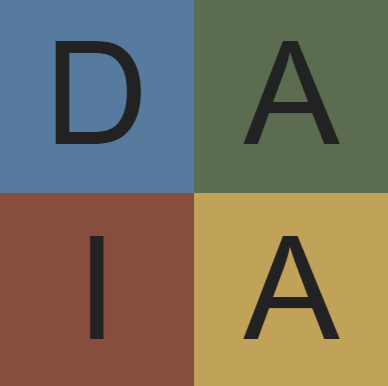
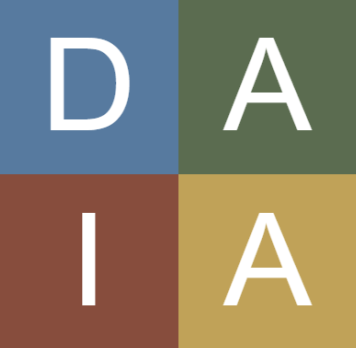
Progress of Floyd, fixed back navigation on the page

diff --git a/Content/Algorithms/Dynamic Programming/Floyds DRAFT.html b/Content/Algorithms/Dynamic Programming/Floyds DRAFT.html
@@ -1,0 +1,225 @@
+<!DOCTYPE html>
+<html lang="en">
+
+<head>
+  <meta charset="UTF-8">
+  <title>Floyd's Algorithm</title>
+  <link rel="stylesheet" href="https://cdnjs.cloudflare.com/ajax/libs/highlight.js/11.11.1/styles/github.min.css">
+  <script src="https://cdnjs.cloudflare.com/ajax/libs/highlight.js/11.11.1/highlight.min.js"></script>
+  <script id="MathJax-script" async src="https://cdn.jsdelivr.net/npm/mathjax@3/es5/tex-mml-chtml.js"></script>
+  <script src="/Algorithms/scripts/chapterScripts.js"></script>
+  <link rel="stylesheet" href="/Algorithms/css/style.css">
+  <link rel="stylesheet" href="/Algorithms/css/chapter.css">
+  <!-- Google tag (gtag.js) -->
+  <script async src="https://www.googletagmanager.com/gtag/js?id=G-DQ5LVZVFDC"></script>
+  <script>
+    window.dataLayer = window.dataLayer || [];
+    function gtag() { dataLayer.push(arguments); }
+    gtag('js', new Date());
+    gtag('config', 'G-DQ5LVZVFDC');
+  </script>
+</head>
+
+<body>
+  <h1>Floyd's Algorithm (All-Pairs Shortest Paths)</h1>
+
+
+  <section id="problem-solved" section-title="Problem Solved">
+    <h2>Problem Solved</h2>
+    <p>
+      Floyd's Algorithm solves the
+      <a class="problem" href="?path=Problems/Graphs/All-Pairs%20Shortest%20Path">All-Pairs Shortest Path</a>
+      problem.
+    </p>
+  </section>
+
+
+  <section id="design" section-title="Design and Strategy">
+    <h2>Design and Strategy</h2>
+    <p>
+      The all-pairs shortest paths problem asks for the minimum distance between every pair of vertices in a weighted
+      graph.
+      Different algorithms approach this in different ways depending on graph size, density, and edge weights.
+      For instance, Dijkstra's algorithm efficiently finds shortest paths from a single source when all edges have
+      nonnegative weights,
+      while Bellman-Ford handles graphs with negative edges but must be run once per source to get all pairs.
+      Floyd's algorithm instead updates all pairs together in a single dynamic programming pass, making it conceptually
+      simple and well suited
+      for dense graphs or adjacency-matrix representations.
+      It works correctly even when some edges have negative weight, provided the graph contains no negative cycles.
+      If a negative cycle exists, distances involving that cycle can decrease without bound, and the notion of a finite
+      shortest path breaks down.
+    </p>
+
+    <p>
+      The algorithm begins with an adjacency matrix \(M\), where each entry \(M[i,j]\) gives the direct edge weight from
+      vertex \(i\) to vertex \(j\), or \(+\infty\) if no such edge exists. Diagonal entries are zero. The algorithm
+      proceeds by considering each vertex, one at a time, as a possible intermediate vertex along any path between two
+      others. After processing vertex \(k\), the matrix records the shortest path between every pair of vertices that
+      may include vertex \(k\) (and any lower-numbered vertices) as intermediates.
+      The initial matrix, \(D^{(0)}\), represents the shortest-path lengths when <em>no</em> intermediate vertices are
+      allowed. The next matrix, \(D^{(1)}\), incorporates paths that may go through vertex 1, \(D^{(2)}\) allows
+      vertices 1 and 2, and so on, until \(D^{(n)}\) allows all vertices.
+    </p>
+
+    <p>
+      Because \(D^{(0)}\) corresponds to zero allowed intermediates, it makes sense to number the vertices starting at
+      1. That way, when we define \(D^{(k)}[i,j]\), it naturally refers to paths whose internal vertices are drawn from
+      the set \(\{1,2,\dots,k\}\). The recursion then begins at \(k=1\) and proceeds through \(k=n\), ensuring that by
+      the end every vertex has been considered as a potential intermediate.
+    </p>
+
+    <p>
+      Each step of the algorithm computes the next matrix from the current one by expanding the set of allowed
+      intermediates from \(\{1,\dots,k-1\}\) to \(\{1,\dots,k\}\). It does so based on the simple observation that
+      any shortest path from \(i\) to \(j\) must fall into one of two cases: It either contains \(k\) or it doesn't.
+      The algorithm determines which is better:
+    </p>
+
+    <ul class="spaced">
+      <li><strong>Vertex \(k\) not used:</strong> The path does not include \(k\) as an intermediate vertex, so its best
+        length remains
+        \(D^{(k-1)}[i,j]\).</li>
+      <li><strong>Vertex \(k\) used:</strong> The path includes \(k\) as an intermediate vertex and can be decomposed
+        into two segments:
+        <ul>
+          <li>The segment from \(i\) to \(k\), whose internal vertices are drawn from \(\{1,\dots,k-1\}\), has shortest
+            length
+            \(D^{(k-1)}[i,k]\).</li>
+          <li>The segment from \(k\) to \(j\), also using only vertices in \(\{1,\dots,k-1\}\), has shortest length
+            \(D^{(k-1)}[k,j]\).</li>
+        </ul>
+        Combining these gives a candidate path of total length \(D^{(k-1)}[i,k] + D^{(k-1)}[k,j]\).
+      </li>
+    </ul>
+    <p>
+      The algorithm then chooses the shorter of these two possibilities to form the updated distance:
+      \[D^{(k)}[i,j] = \min\big(D^{(k-1)}[i,j],\; D^{(k-1)}[i,k] + D^{(k-1)}[k,j]\big).\]
+      This recurrence expresses the core dynamic programming idea: constructing larger solutions from smaller ones.
+    </p>
+
+   <h1>I AM HERE!</h1>
+   
+
+    <h3>High-level description</h3>
+    <ul class="spaced">
+      <li>Start with a distance matrix \(D\) equal to the adjacency matrix (with \(+\infty\) for missing edges, and
+        \(0\) on the diagonal).</li>
+      <li>For each vertex \(k\), try to improve every pair \((i,j)\) by allowing paths that go through \(k\).</li>
+      <li>If \(D[i,k] + D[k,j] &lt; D[i,j]\), update \(D[i,j]\).</li>
+      <li>Optionally maintain a <code>Next</code> (or <code>Pred</code>) matrix for path reconstruction.</li>
+    </ul>
+
+
+    <h3>Pseudocode</h3>
+    <ol class="spaced">
+      <li><strong>Input:</strong> \(n\) and an \(n\times n\) weight matrix \(W\) where
+        <ul>
+          <li>\(W[i,i]=0\) for all \(i\).</li>
+          <li>\(W[i,j]=w(i,j)\) if edge \((i,j)\in E\).</li>
+          <li>\(W[i,j]=+\infty\) otherwise.</li>
+        </ul>
+      </li>
+      <li><strong>Initialize:</strong>
+        <ol>
+          <li>Let \(D \gets W\).</li>
+          <li>(Optional) For path reconstruction, set
+            <code>Next[i][j] = j</code> if \(W[i][j] &lt; +\infty\) and \(i \ne j\); otherwise
+            <code>Next[i][j] = null</code>.
+          </li>
+        </ol>
+      </li>
+      <li><strong>Triple loop update:</strong>
+        <ol>
+          <li>For \(k = 1\) to \(n\):</li>
+  </section>
+
+  <section id="demo" section-title="Interactive Demo">
+    <div class="embeddedDemoContainer">
+      <iframe class="embeddedDemo" src="/Algorithms/Content/Demos/TECHNIQUE/ALGORITHM NAME Demo.html" allow="fullscreen"
+        name="ALGORITHM_NAME-demo">
+      </iframe>
+    </div>
+  </section>
+
+  <section id="code" section-title="Implementation in Java, C++, Python">
+    <h2>Implementation in Java, C++, Python</h2>
+    <p>Notes about the implementations, if any</p>
+    <div class="tab-group">
+      <div class="tabs" role="tablist">
+        <button id="tab-java" class="tablink active" data-lang="java" role="tab" aria-controls="java"
+          aria-selected="true">Java</button>
+        <button id="tab-cpp" class="tablink" data-lang="cpp" role="tab" aria-controls="cpp"
+          aria-selected="false">C++</button>
+        <button id="tab-python" class="tablink" data-lang="python" role="tab" aria-controls="python"
+          aria-selected="false">Python</button>
+      </div>
+      <div id="java" class="code-container active" role="tabpanel" aria-labelledby="tab-java">
+        <pre><code class="language-java">// Java code here</code></pre>
+      </div>
+      <div id="cpp" class="code-container" role="tabpanel" aria-labelledby="tab-cpp">
+        <pre><code class="language-cpp">// C++ code here</code></pre>
+      </div>
+      <div id="python" class="code-container" role="tabpanel" aria-labelledby="tab-python">
+        <pre><code class="language-python"># Python code here</code></pre>
+      </div>
+    </div>
+  </section>
+
+  <section id="analysis" section-title="Time/Space Analysis">
+    <h2>Time/Space Analysis</h2>
+    <p><strong>Time Complexity:</strong> Describe and justify.</p>
+    <p><strong>Space Complexity:</strong> Describe and justify.</p>
+  </section>
+
+
+  <section id="variations" section-title="Variations/Improvements">
+    <h2>Variations/Improvements</h2>
+    <p>
+      Describe known improvements or variants of the algorithm. Mention which situations they are better suited for.
+    </p>
+  </section>
+
+  <section id="links" section-title="Links to Resources">
+    <h2>Links to Resources</h2>
+    <ul>
+      <li><a href="URL1" target="_blank">title 1</a> Short description of website</li>
+      <li><a href="URL2" target="_blank">title 2</a> Short description of website</li>
+      <li><a href="URL3" target="_blank">title 3</a> Short description of website</li>
+    </ul>
+  </section>
+
+  <section id="reading-questions" section-title="Reading Comprehension Questions">
+    <h2>Reading Comprehension Questions</h2>
+    <ol>
+      <li><strong>Short Title:</strong> Question text here.</li>
+      <li><strong>Short Title:</strong> Another question text.</li>
+    </ol>
+    <button id="toggleAnswers" class="show-answer" aria-expanded="false">Show Answers</button>
+    <div id="answers" class="answer" hidden>
+      <ol>
+        <li><strong>Answer:</strong> Explanation here.</li>
+        <li><strong>Answer:</strong> Explanation here.</li>
+      </ol>
+    </div>
+  </section>
+
+  <section id="activities" section-title="In-Class Activities">
+    <h2>In-Class Activities</h2>
+    <ol>
+      <li><strong>Activity Title:</strong> Description of activity.</li>
+      <li><strong>Another Title:</strong> Another activity description.</li>
+    </ol>
+  </section>
+
+  <section id="problems" section-title="Homework Problems">
+    <h2>Homework Problems</h2>
+    <ol>
+      <li><strong>Short Description 1:</strong> Problem statement 1.</li>
+      <li><strong>Short Description 2:</strong> Problem statement 2.</li>
+    </ol>
+  </section>
+
+</body>
+
+</html>

diff --git a/scripts/loadContent.js b/scripts/loadContent.js
@@ -121,10 +121,10 @@ const navigateTo = (rawPath) => {
 
   // 1) Save old scroll position
   const oldScrollY = window.pageYOffset;
+  // Save scroll state without altering the current entry's URL
   history.replaceState(
     { path: currentPath, scrollY: oldScrollY },
-    '',
-    `?path=${normalizePath(currentPath)}`
+    ''
   );
 
   // 2) Push new entry
@@ -752,8 +752,18 @@ async function loadContent(relativePath) {
     err.style.display = 'none';
     iframe.style.display = 'block';
 
-    // Use src assignment with cache-bust for stable navigation in iframe
-    iframe.src = `${url}?_=${Date.now()}`;
+    // Load into iframe without adding to its session history (use replace)
+    const target = `${url}?_=${Date.now()}`;
+    try {
+      // Prefer replacing the iframe's location to avoid stacking iframe history entries
+      if (iframe.contentWindow && iframe.contentWindow.location) {
+        iframe.contentWindow.location.replace(target);
+      } else {
+        iframe.src = target;
+      }
+    } catch {
+      iframe.src = target;
+    }
 
     iframe.onload = () => {
       hookIframeContent(iframe);
@@ -781,8 +791,16 @@ async function loadContent(relativePath) {
         const dtest = getIframeDocument(iframe);
         const isEmpty = !dtest || !dtest.body || dtest.body.childElementCount === 0;
         if (isEmpty) {
-          // reassign src once
-          iframe.src = `${url}?__retry__=${Date.now()}`;
+          const retry = `${url}?__retry__=${Date.now()}`;
+          try {
+            if (iframe.contentWindow && iframe.contentWindow.location) {
+              iframe.contentWindow.location.replace(retry);
+            } else {
+              iframe.src = retry;
+            }
+          } catch {
+            iframe.src = retry;
+          }
           return; // wait for next onload
         }
       } catch {}
@@ -848,14 +866,21 @@ document.addEventListener('DOMContentLoaded', () => {
         .querySelector('#collapseAll')
         .onclick = () => document.querySelectorAll('#menu li').forEach((li) => li.classList.remove('open'));
 
+      // Load initial content from URL and ensure the initial history state is set
       loadFromURLParams();
+      try {
+        const initialPath = new URLSearchParams(window.location.search).get('path') || 'Home/About';
+        const currentState = history.state || {};
+        if (currentState.path !== initialPath) {
+          // Preserve the current URL (including any hash) while setting state
+          history.replaceState({ path: initialPath, scrollY: window.pageYOffset || 0 }, '', window.location.href);
+        }
+      } catch {}
     })
     .catch(console.error);
 
 
   document.addEventListener('click', (event) => {
-	  
-	console.log("Click!");
     if (event.target.closest('iframe')) return;
     const anchor = event.target.closest('a[href^="?path="]');
     if (!anchor) return;
@@ -879,7 +904,8 @@ document.addEventListener('DOMContentLoaded', () => {
 window.addEventListener('message', (event) => {
   const msg = event.data;
   if (msg?.type === 'navigate' && msg.path) {
-    navigateTo(msg.path);
+    const currentPath = getCurrentPath();
+    if (msg.path !== currentPath) navigateTo(msg.path);
   }
 });
 
@@ -888,7 +914,9 @@ window.removeEventListener('popstate', loadFromURLParams);
 window.addEventListener('popstate', (event) => {
   const state = event.state || {};
   pendingScrollRestore = typeof state.scrollY === 'number' ? state.scrollY : 0;
-  const rawPath = state.path || 'Home/About';
+  // Prefer URL as source of truth for the popped entry; fallback to state
+  const urlPath = new URLSearchParams(window.location.search).get('path');
+  const rawPath = urlPath || state.path || 'Home/About';
   highlightActiveLink(rawPath);
   loadContent(`${normalizePath(rawPath)}.html`);
 });

diff --git a/css/style.css b/css/style.css
@@ -97,6 +97,29 @@ body.mainSite header {
   background-color: #4F7AA1;
   color: #fff;
   text-align: center;
+  /* Reserve space for right-side logo; keep header tall enough for it */
+  padding-right: calc(var(--logo-size, 72px) + 16px);
+  min-height: calc(var(--logo-size, 72px) + 12px);
+}
+
+/* Header logo pinned to upper-right; responsive size */
+:root { --logo-size: 80px; }
+
+#siteLogo {
+  position: absolute;
+  top: 6px;
+  right: 8px;
+  left: auto;
+  height: var(--logo-size);
+  width: auto;
+}
+
+/* Shrink logo on smaller screens to avoid overlap */
+@media (max-width: 800px) {
+  :root { --logo-size: 56px; }
+}
+@media (max-width: 500px) {
+  :root { --logo-size: 40px; }
 }
 
 /* 2) Container holds menu + content and is the *only* scrollable area */

diff --git a/index.html b/index.html
@@ -112,6 +112,7 @@ header {
 <body class="mainSite">
   <div id="pageWrapper">
     <header>
+      <img id="siteLogo" src="images/DAIA.png" alt="DAIA logo" />
       <h1>Design, Analysis, and Implementation of Algorithms</h1>
       <h4>(and eventually Data Structures)</h4>
       <h3>Design Strategies &middot; Interactive Demos &middot; 
